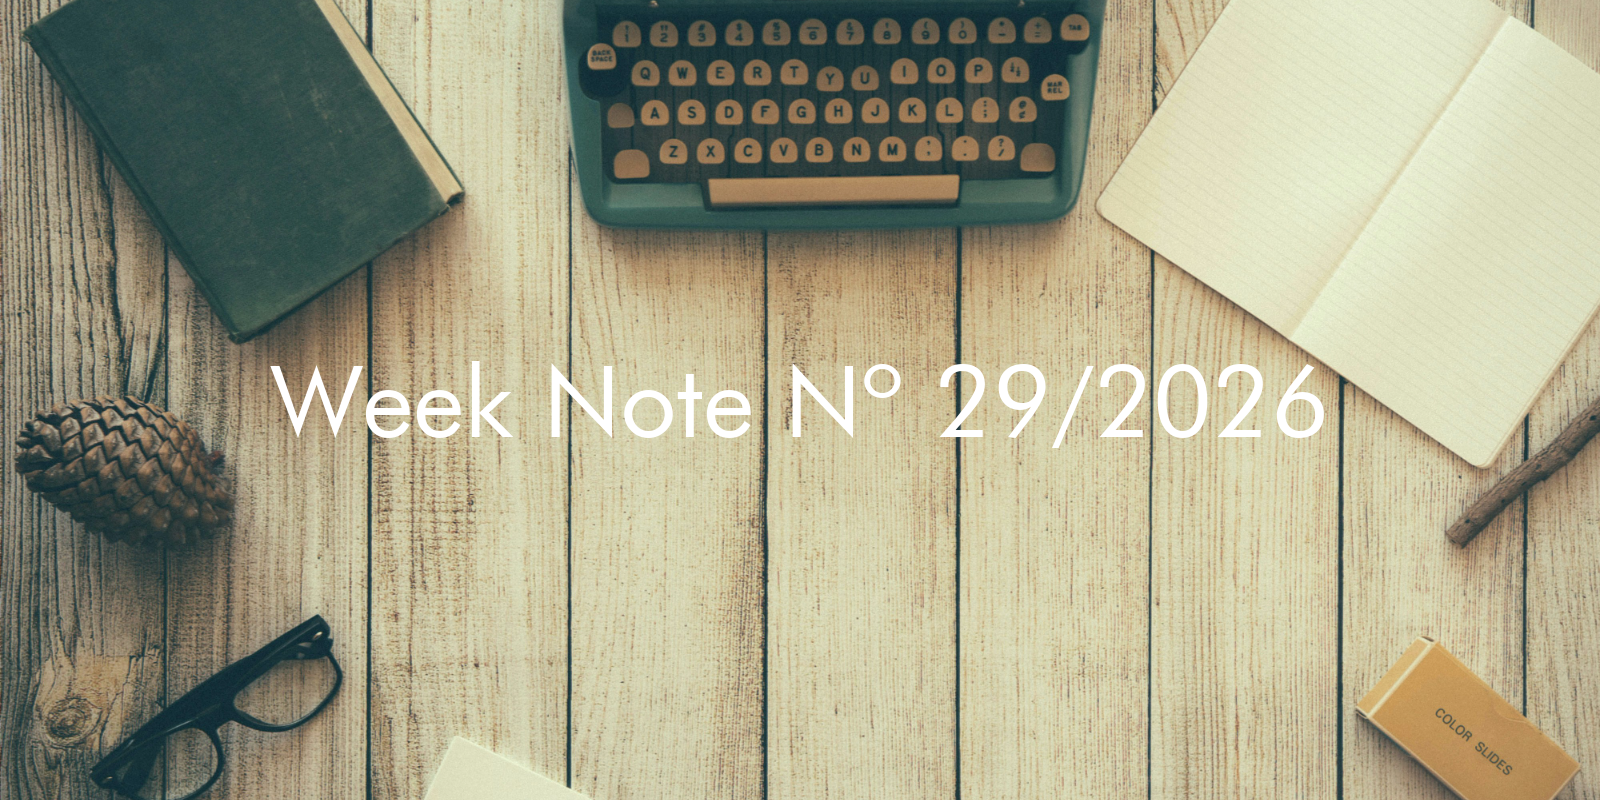
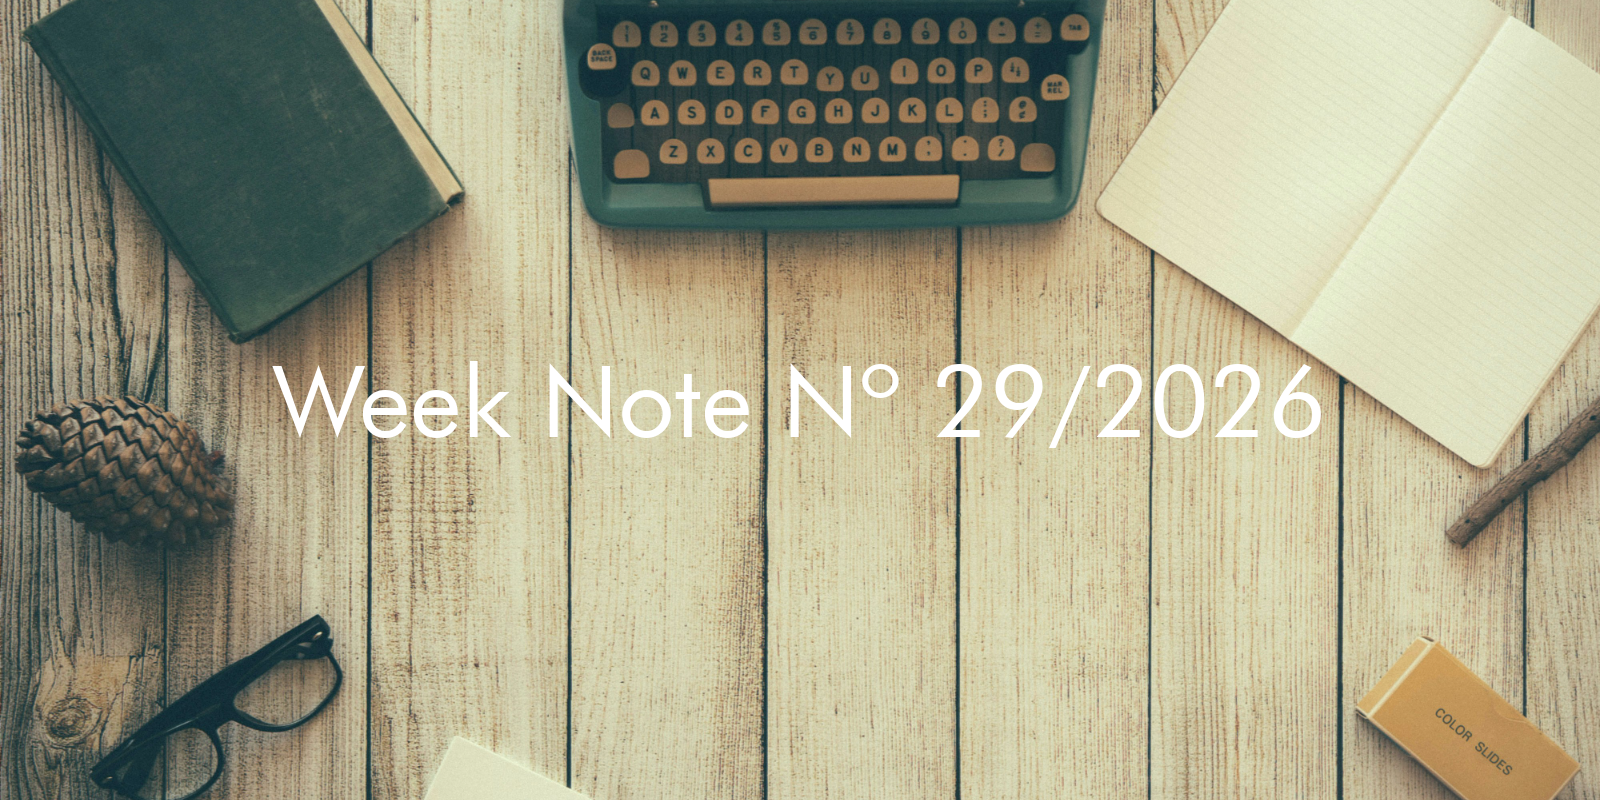
👾Generate Weekly skip-checks: true

Changed region(s): [[0.5938, 0.4688, 0.8438, 0.5625], [0.3438, 0.4688, 0.5625, 0.5312], [0.1562, 0.4688, 0.3125, 0.5625]]

diff --git a/content/weeknotes/2026/29/index.md b/content/weeknotes/2026/29/index.md
@@ -21,6 +21,8 @@ draft: False
 - [What’s Up with Sailor Studio Inks? – The Well-Appointed Desk](https://www.wellappointeddesk.com/2026/07/whats-up-with-sailor-studio-inks/?utm_source=fundor333.com)
 - [Tokyo rainy season scenery  — Tokyo Times](https://www.tokyotimes.org/tokyo-rainy-season-scenery/?utm_source=fundor333.com)
 - [A Git hook to prevent committing directly to main – alexwlchan](https://alexwlchan.net/2026/no-main-hook/?utm_source=fundor333.com)
+## New post from my blog
+- [Week Note Nº 29/2026](https://fundor333.com/weeknotes/2026/29/?utm_source=fundor333.com)
 
 ## My Links
 - [My blog](https://www.fundor333.com)